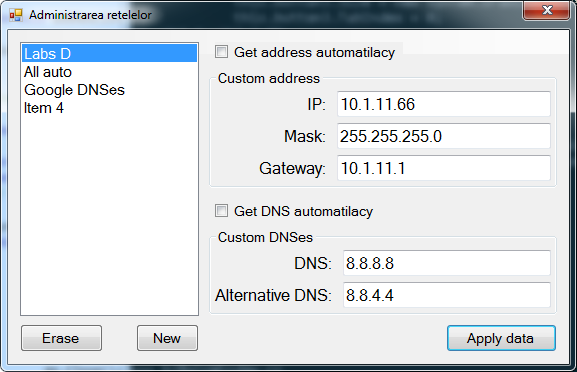
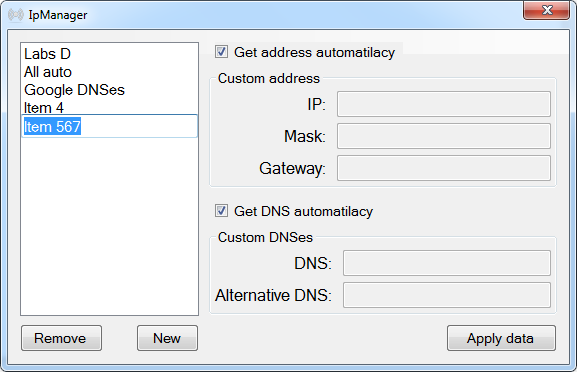
ability to edit element name

diff --git a/MainWindow.cs b/MainWindow.cs
@@ -19,6 +19,7 @@ namespace Lab_2
         private ManagementObjectCollection adapters;
         private IpCtrl ctrl = new IpCtrl();
         private String settingsFileName = "settings.json";
+        private int lastEditedListItemIndex = -1;
 
         public MainWindow()
         {
@@ -92,6 +93,26 @@ namespace Lab_2
         {
             if (testData(textBox5.Text, "ip"))
                 saveData();
+        }
+
+        private void textBoxHidden_Leave(object sender, EventArgs e)
+        {
+            if (lastEditedListItemIndex >= 0)
+            {
+                listBox1.Items[lastEditedListItemIndex] = textBoxHidden.Text;
+                textBoxHidden.Visible = false;
+
+                saveData(false);
+            }
+        }
+
+        private void textBoxHidden_PreviewKeyDown(object sender, PreviewKeyDownEventArgs e)
+        {
+            if (e.KeyCode == Keys.Enter)
+            {
+                // Move focus to list box
+                listBox1.Focus();
+            }
         }
 
         // buttons  =========================================
@@ -206,7 +227,7 @@ namespace Lab_2
         {
             string line;
             int counter = 0;
-            // load data            
+            // load data
 
             System.IO.StreamReader file = new System.IO.StreamReader(settingsFileName);
             while ((line = file.ReadLine()) != null)
@@ -227,6 +248,28 @@ namespace Lab_2
             }
 
             file.Close();
+        }
+
+        // Ask for new title on double click
+        private void listBox1_MouseDoubleClick(object sender, MouseEventArgs e)
+        {
+            int index = listBox1.IndexFromPoint(e.Location);
+            if (index != System.Windows.Forms.ListBox.NoMatches)
+            {
+                // Change input location
+                Point textBoxLocation = textBoxHidden.Location;
+                textBoxLocation.Y = listBox1.Location.Y + index * listBox1.ItemHeight;
+                textBoxHidden.Location = textBoxLocation;
+                // Change input value
+                textBoxHidden.Text = listBox1.Items[index].ToString();
+                // Display input
+                textBoxHidden.Visible = true;
+                // Focus input
+                textBoxHidden.Focus();
+
+                // Set global value of this item
+                lastEditedListItemIndex = index;
+            }
         }
 
         // functions  =========================================
@@ -319,6 +362,7 @@ namespace Lab_2
 
         private bool testData(string data, string type)
         {
+            // ToDo
             return true;
         }
 

diff --git a/MainWindow.Designer.cs b/MainWindow.Designer.cs
@@ -47,6 +47,7 @@
             this.checkBox1 = new System.Windows.Forms.CheckBox();
             this.checkBox2 = new System.Windows.Forms.CheckBox();
             this.menuStrip1 = new System.Windows.Forms.MenuStrip();
+            this.textBoxHidden = new System.Windows.Forms.TextBox();
             this.groupBox1.SuspendLayout();
             this.groupBox2.SuspendLayout();
             this.SuspendLayout();
@@ -112,6 +113,7 @@
             this.listBox1.Size = new System.Drawing.Size(179, 274);
             this.listBox1.TabIndex = 10;
             this.listBox1.SelectedIndexChanged += new System.EventHandler(this.listBox1_SelectedIndexChanged);
+            this.listBox1.MouseDoubleClick += new System.Windows.Forms.MouseEventHandler(this.listBox1_MouseDoubleClick);
             // 
             // textBox3
             // 
@@ -257,11 +259,23 @@
             this.menuStrip1.TabIndex = 18;
             this.menuStrip1.Text = "menuStrip1";
             // 
+            // textBoxHidden
+            // 
+            this.textBoxHidden.Font = new System.Drawing.Font("Microsoft Sans Serif", 11F, System.Drawing.FontStyle.Regular, System.Drawing.GraphicsUnit.Point, ((byte)(204)));
+            this.textBoxHidden.Location = new System.Drawing.Point(13, 261);
+            this.textBoxHidden.Name = "textBoxHidden";
+            this.textBoxHidden.Size = new System.Drawing.Size(177, 24);
+            this.textBoxHidden.TabIndex = 19;
+            this.textBoxHidden.Visible = false;
+            this.textBoxHidden.Leave += new System.EventHandler(this.textBoxHidden_Leave);
+            this.textBoxHidden.PreviewKeyDown += new System.Windows.Forms.PreviewKeyDownEventHandler(this.textBoxHidden_PreviewKeyDown);
+            // 
             // MainWindow
             // 
             this.AutoScaleDimensions = new System.Drawing.SizeF(6F, 13F);
             this.AutoScaleMode = System.Windows.Forms.AutoScaleMode.Font;
             this.ClientSize = new System.Drawing.Size(561, 334);
+            this.Controls.Add(this.textBoxHidden);
             this.Controls.Add(this.checkBox2);
             this.Controls.Add(this.checkBox1);
             this.Controls.Add(this.groupBox2);
@@ -306,6 +320,7 @@
         private System.Windows.Forms.CheckBox checkBox1;
         private System.Windows.Forms.CheckBox checkBox2;
         private System.Windows.Forms.MenuStrip menuStrip1;
+        private System.Windows.Forms.TextBox textBoxHidden;
     }
 }
 

diff --git a/README.md b/README.md
@@ -13,8 +13,7 @@ Simple application that stores and has ability to change IPv4 network settings.
 ## ToDo
 
 * Select device/interface for which IP settings are changing
-* Review addition of new items
-* Ability to rename and reorder elements
+* Ability to reorder elements
 * Check validity of data
 * Store data into cloud
 * Add suppost for IPv6
